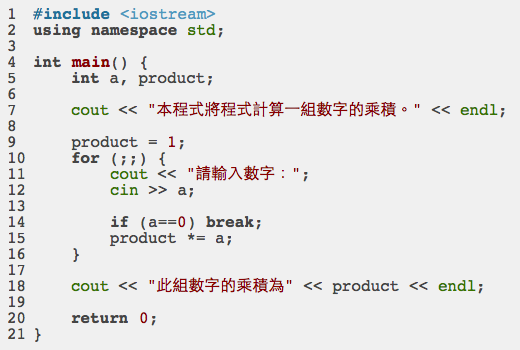
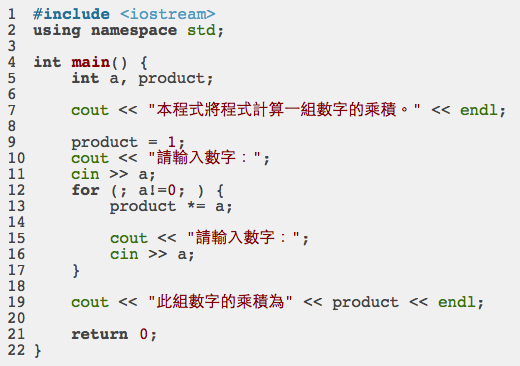
b08

diff --git a/html/Cpp-programming/loops.html b/html/Cpp-programming/loops.html
@@ -627,6 +627,7 @@
                   <button type="button" class="btn btn-primary" data-toggle="modal" data-target="#mdl-ans-b08-1">ans2</button>
                   <button type="button" class="btn btn-primary" data-toggle="modal" data-target="#mdl-ans-b08-2">ans3</button>
                   <button type="button" class="btn btn-primary" data-toggle="modal" data-target="#mdl-ans-b08-3">ans4</button>
+                  <button type="button" class="btn btn-primary" data-toggle="modal" data-target="#mdl-ans-b08-4">ans5</button>
                 </div>
       </div>
     </div>
@@ -662,6 +663,15 @@
         <div class="modal-header"><h5 class="modal-title">b08-3</h5></div>
         <div class="modal-body">
           <img src="ans-b08-3.png"></img>
+        </div>
+        <div class="modal-footer"><button type="button" class="btn btn-secondary" data-dismiss="modal">Close</button></div>
+      </div></div>
+    </div>
+        <div class="modal fade" id="mdl-ans-b08-4" tabindex="-1" role="dialog">
+      <div class="modal-dialog modal-lg" role="document"><div class="modal-content">
+        <div class="modal-header"><h5 class="modal-title">b08-4</h5></div>
+        <div class="modal-body">
+          <img src="ans-b08-4.png"></img>
         </div>
         <div class="modal-footer"><button type="button" class="btn btn-secondary" data-dismiss="modal">Close</button></div>
       </div></div>

diff --git a/php/Cpp-programming/loops.php b/php/Cpp-programming/loops.php
@@ -511,6 +511,29 @@ int main() {
     cout << "本程式將程式計算一組數字的乘積。" << endl;
 
     product = 1;
+    cout << "請輸入數字：";
+    cin >> a;
+    for (; a!=0; ) {
+        product *= a;
+
+        cout << "請輸入數字：";
+        cin >> a;
+    }
+
+    cout << "此組數字的乘積為" << product << endl;
+
+    return 0;
+}
+', '
+#include <iostream>
+using namespace std;
+
+int main() {
+    int a, product;
+
+    cout << "本程式將程式計算一組數字的乘積。" << endl;
+
+    product = 1;
     for (;;) {
         cout << "請輸入數字：";
         cin >> a;
